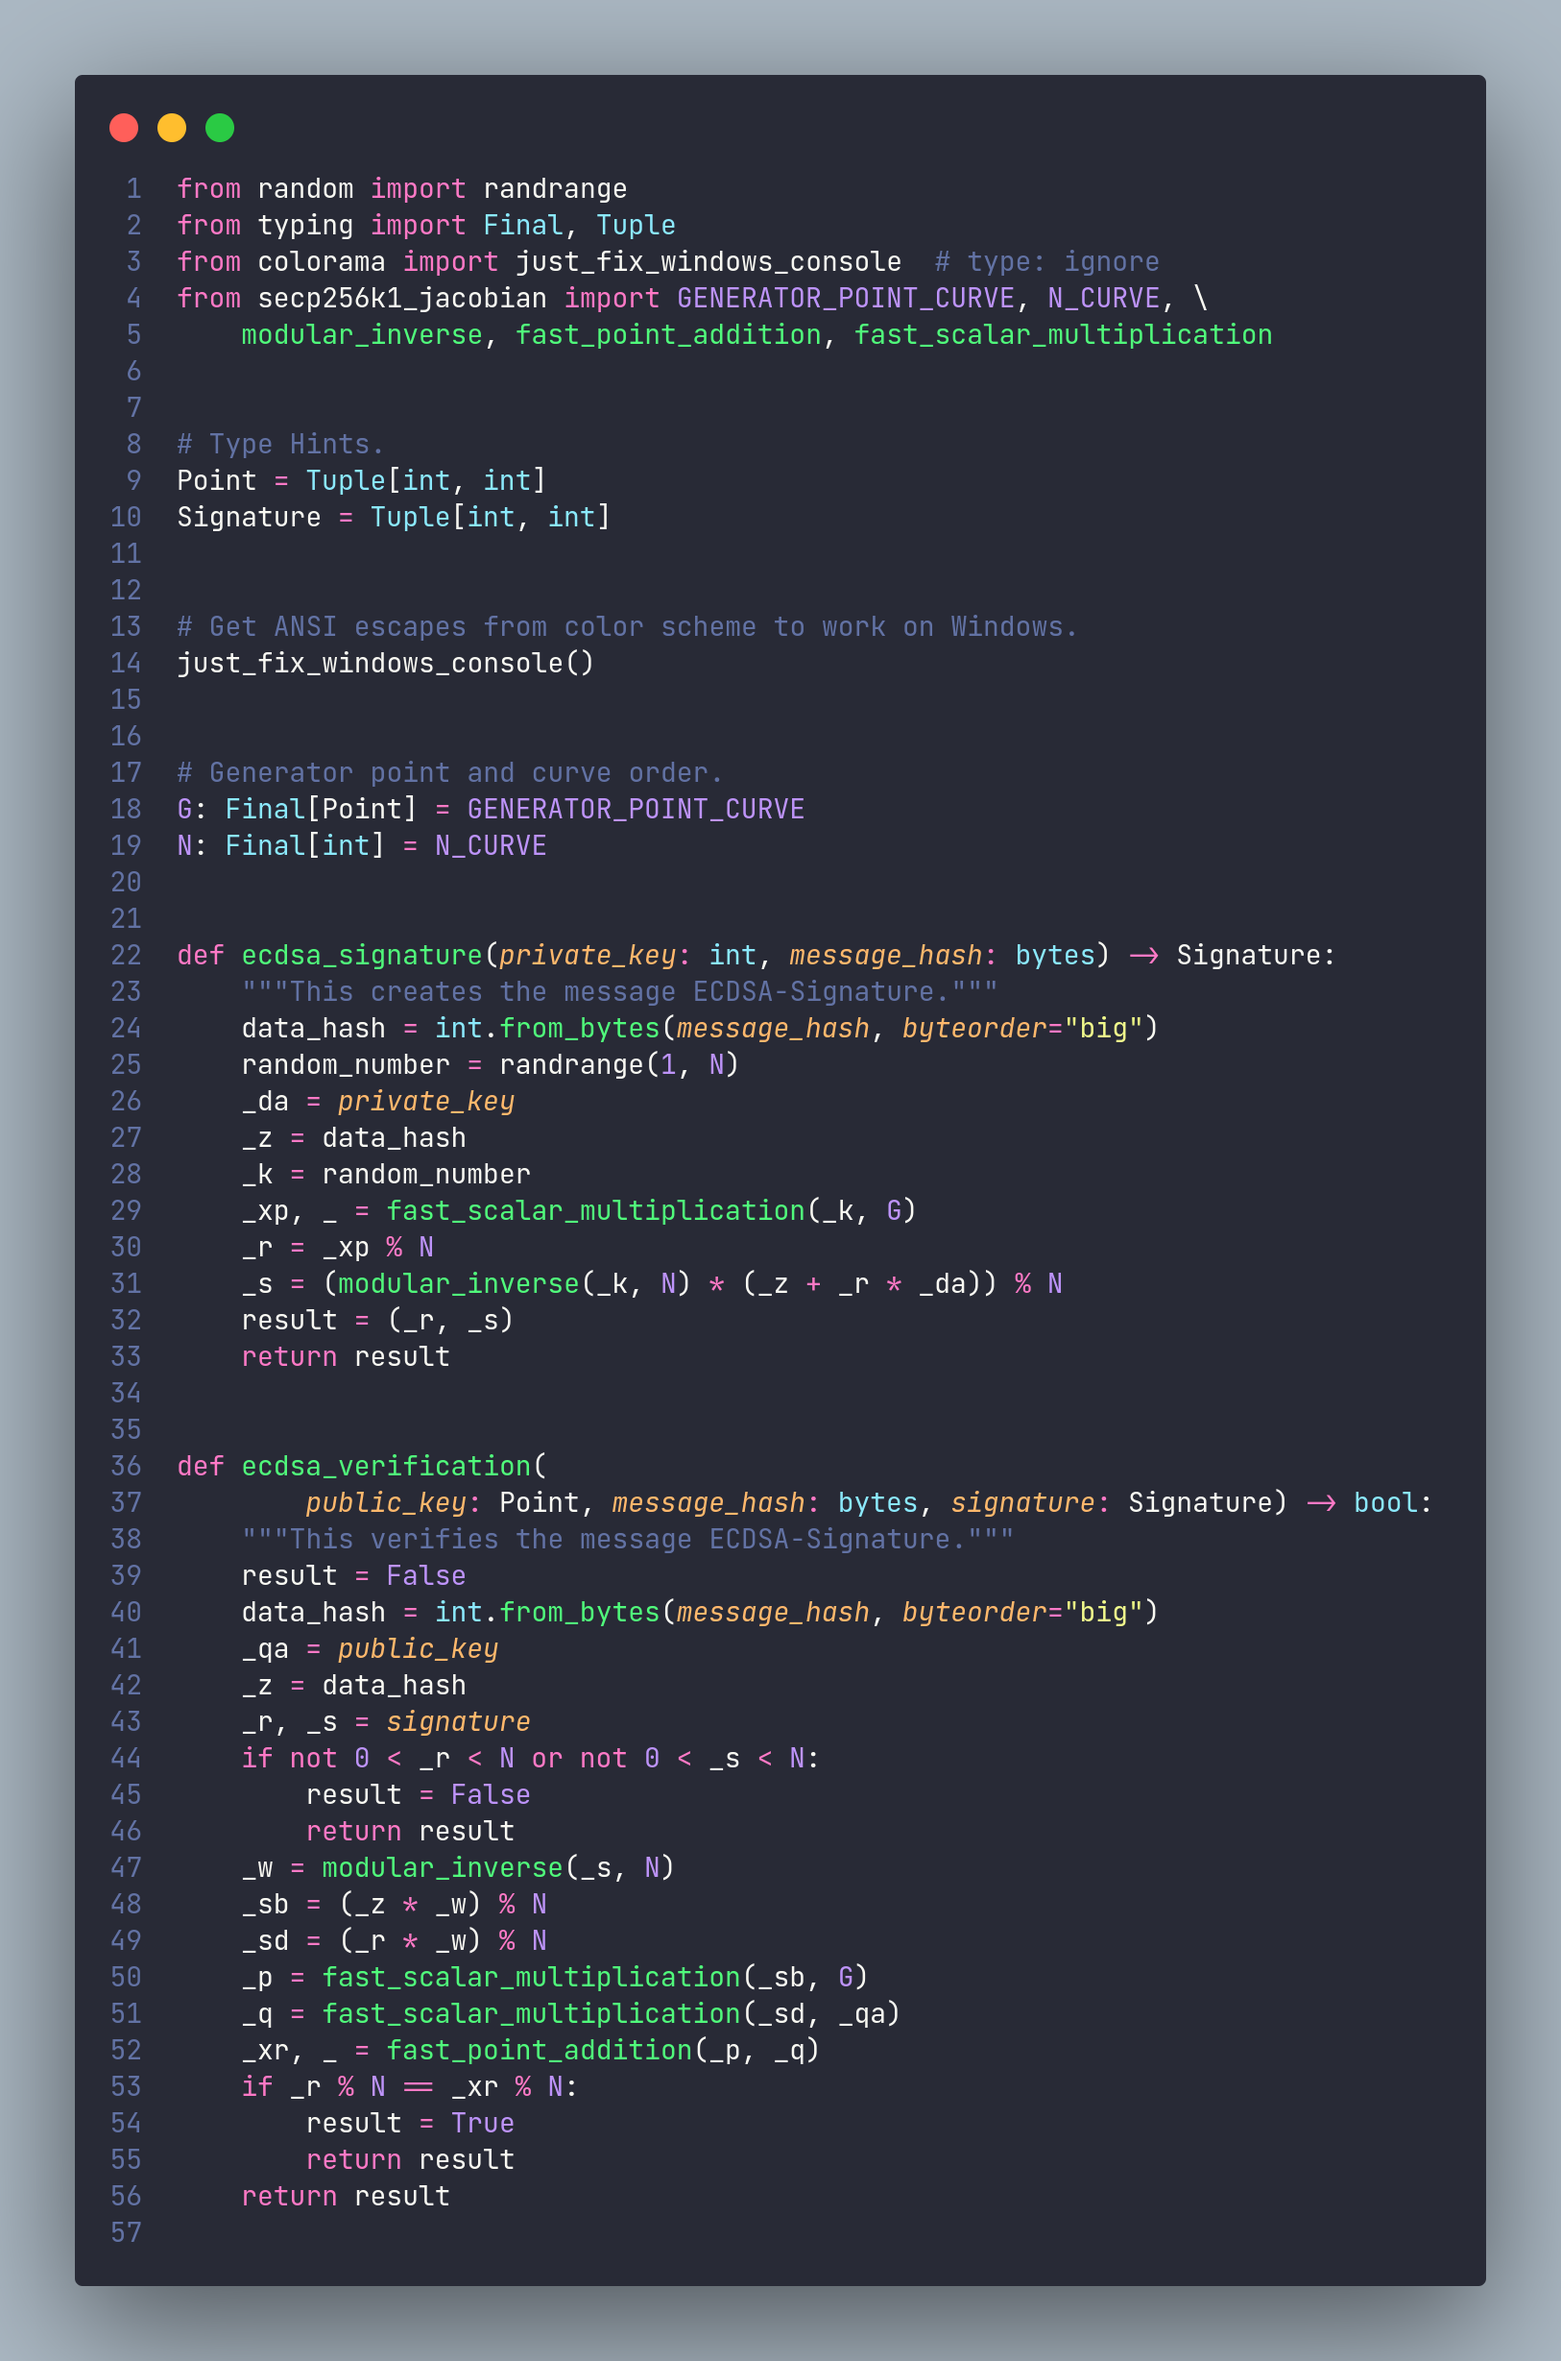
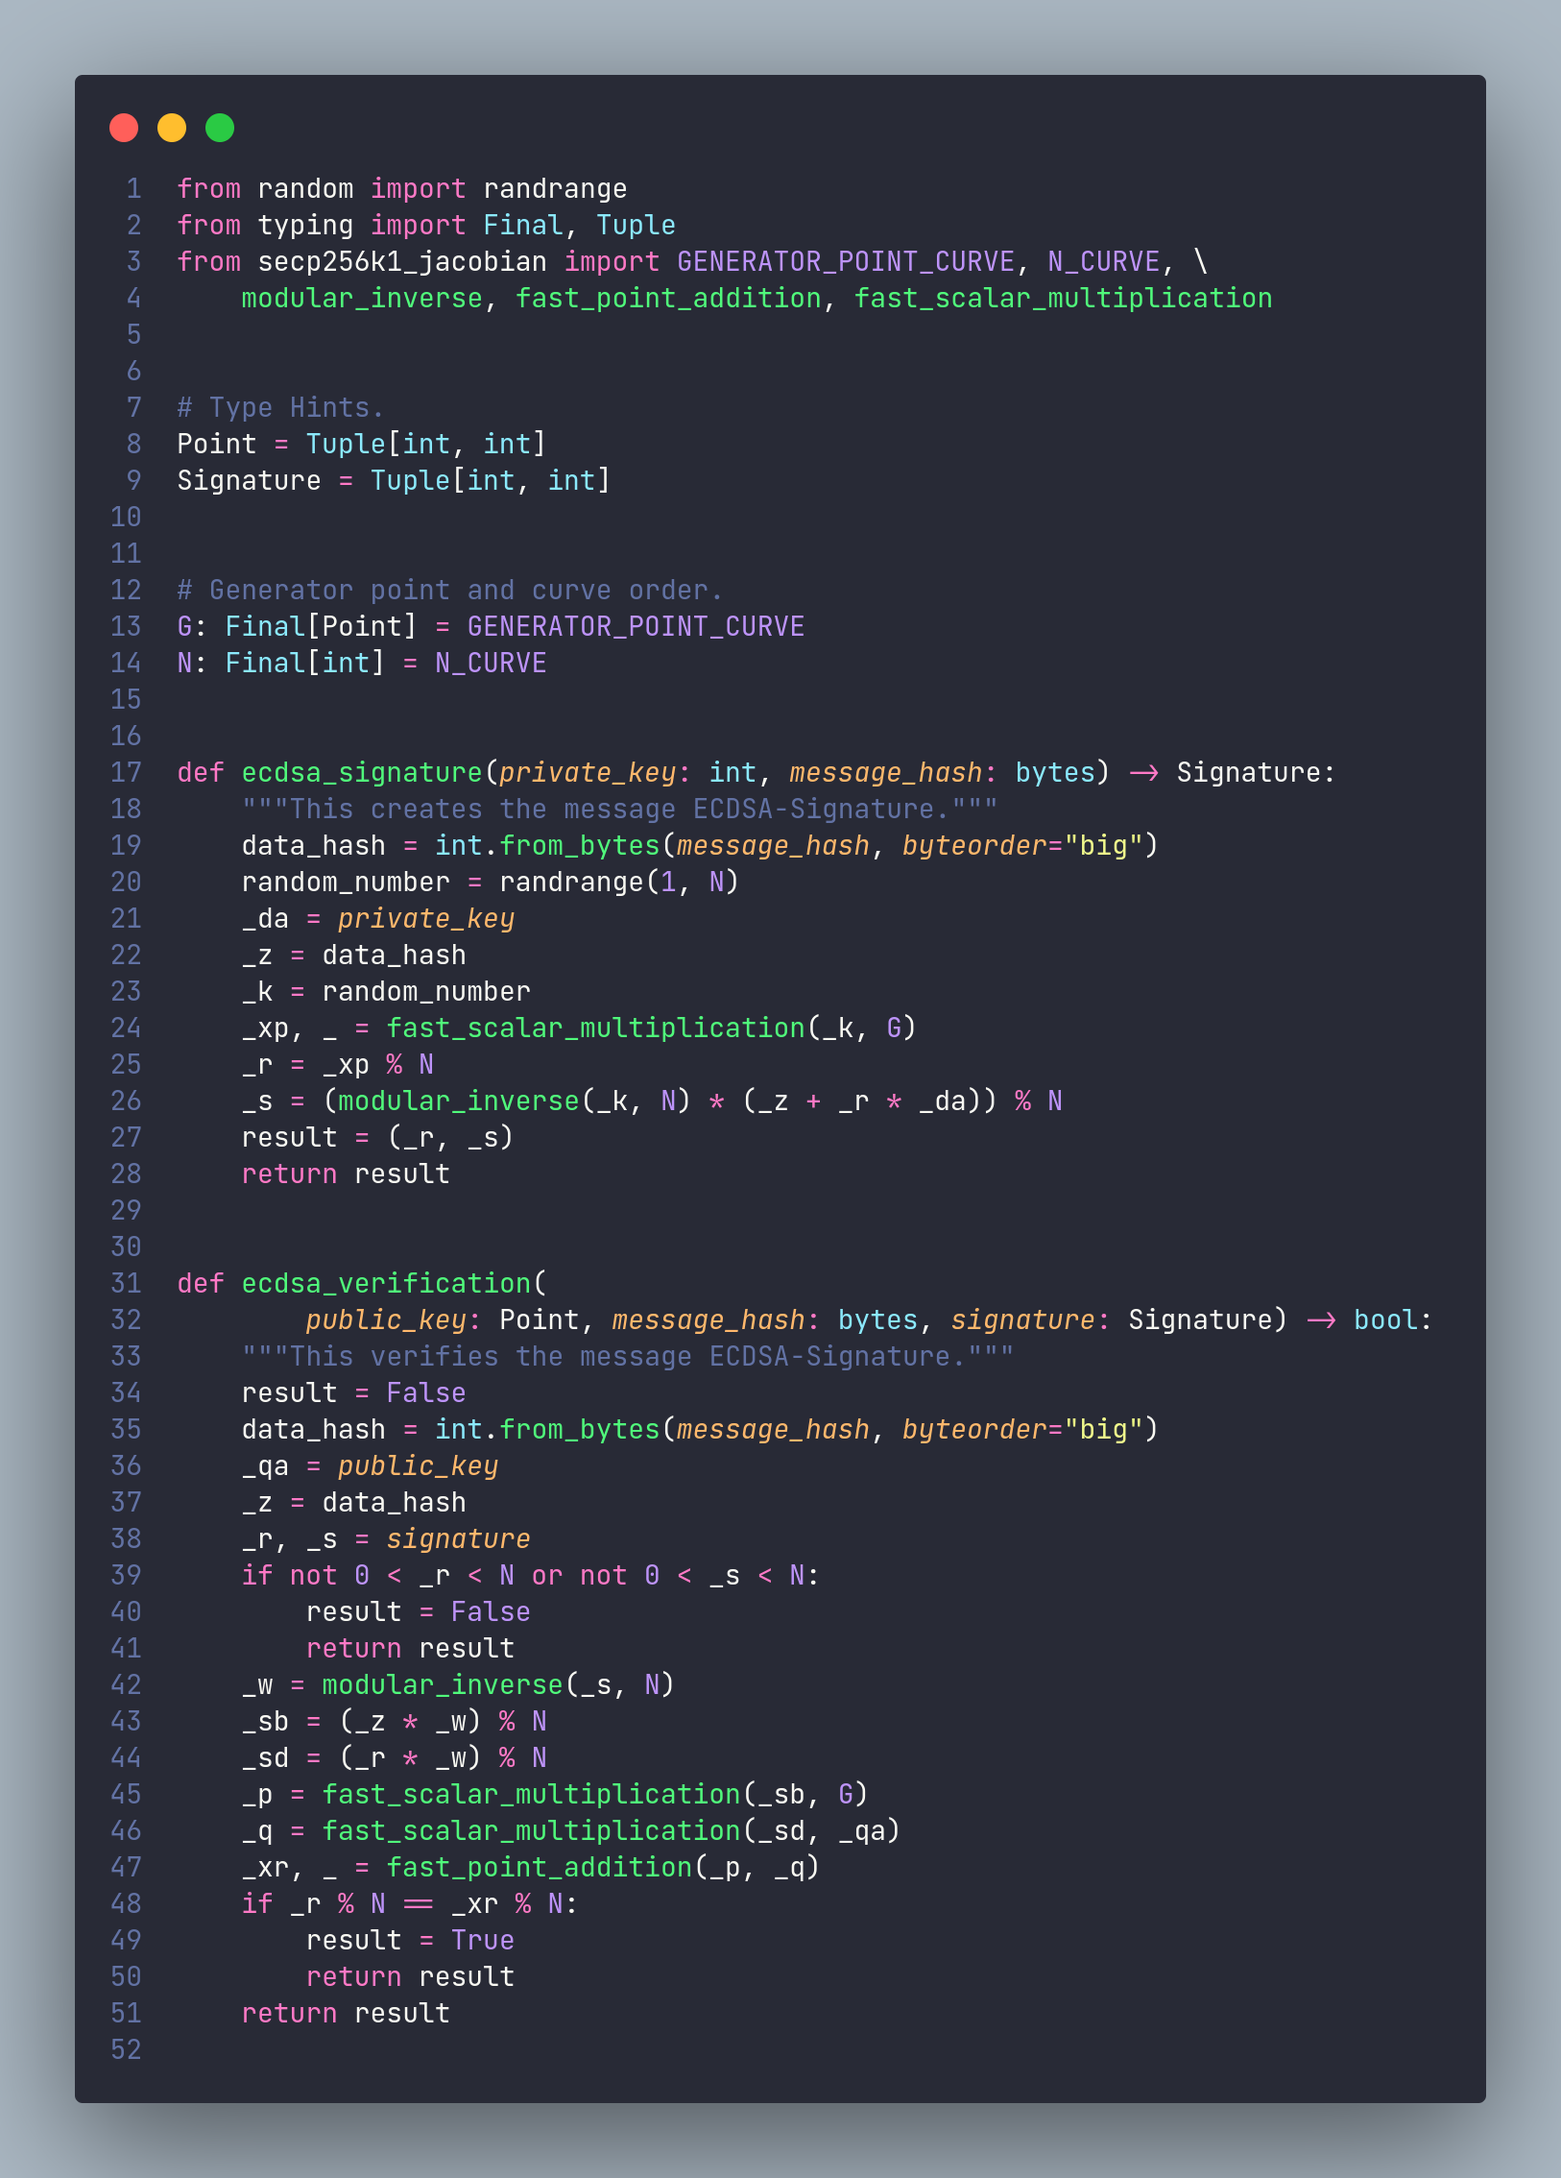
Elliptic Curve Cryptography (ECC), with curve secp256k1.

diff --git a/ecc/secp256k1/secp256k1_ecdsa.html b/ecc/secp256k1/secp256k1_ecdsa.html
@@ -1,7 +1,7 @@
 <!DOCTYPE html>
 <html>
   <head>
-<meta http-equiv="content-type" content="text/html; charset=UTF-8">
+<meta charset="utf-8">
 <link rel="shortcut icon" href="./images/github-logo.png">
 <title>SECP256K1 ECDSA-Signature</title>
     <style>

diff --git a/ecc/secp256k1/p2tr.html b/ecc/secp256k1/p2tr.html
@@ -1,7 +1,7 @@
 <!DOCTYPE html>
 <html>
   <head>
-<meta http-equiv="content-type" content="text/html; charset=UTF-8">
+<meta charset="utf-8">
 <link rel="shortcut icon" href="./images/github-logo.png">
 <title>BITCOIN - ENDEREÇO P2TR</title>
     <style>

diff --git a/ecc/secp256k1/secp256k1_test_vectors.html b/ecc/secp256k1/secp256k1_test_vectors.html
@@ -1,7 +1,7 @@
 <!DOCTYPE html>
 <html>
   <head>
-<meta http-equiv="content-type" content="text/html; charset=UTF-8">
+<meta charset="utf-8">
 <link rel="shortcut icon" href="./images/github-logo.png">
 <title>SECP256K1 - Test Vectors</title>
     <style>

diff --git a/ecc/secp256k1/secp256k1_weierstrass.html b/ecc/secp256k1/secp256k1_weierstrass.html
@@ -1,7 +1,7 @@
 <!DOCTYPE html>
 <html>
   <head>
-<meta http-equiv="content-type" content="text/html; charset=UTF-8">
+<meta charset="utf-8">
 <link rel="shortcut icon" href="./images/github-logo.png">
 <title>SECP256K1 | Weierstrass</title>
     <style>

diff --git a/ecc/secp256k1/secp256k1_jacobian.html b/ecc/secp256k1/secp256k1_jacobian.html
@@ -1,7 +1,7 @@
 <!DOCTYPE html>
 <html>
   <head>
-<meta http-equiv="content-type" content="text/html; charset=UTF-8">
+<meta charset="utf-8">
 <link rel="shortcut icon" href="./images/github-logo.png">
 <title>SECP256K1 | Jacobian</title>
     <style>

diff --git a/ecc/secp256k1/secp256k1_ecdsa.py b/ecc/secp256k1/secp256k1_ecdsa.py
@@ -46,7 +46,6 @@ Works on Python 3.8 or higher.
 
 from random import randrange
 from typing import Final, Tuple
-from colorama import just_fix_windows_console  # type: ignore
 from secp256k1_jacobian import GENERATOR_POINT_CURVE, N_CURVE, \
     modular_inverse, fast_point_addition, fast_scalar_multiplication
 
@@ -54,10 +53,6 @@ from secp256k1_jacobian import GENERATOR_POINT_CURVE, N_CURVE, \
 # Type Hints.
 Point = Tuple[int, int]
 Signature = Tuple[int, int]
-
-
-# Get ANSI escapes from color scheme to work on Windows.
-just_fix_windows_console()
 
 
 # Generator point and curve order.
@@ -107,6 +102,10 @@ if __name__ == "__main__":
     # ECDSA-Signature test.
     from hashlib import sha256
     from secp256k1_jacobian import x_coordinate, y_coordinate
+    from colorama import just_fix_windows_console  # type: ignore
+
+    # Get ANSI escapes from color scheme to work on Windows.
+    just_fix_windows_console()
 
     def hasher_double_sha256(data: bytes) -> bytes:
         """Get double hash through SHA-256."""

diff --git a/ecc/secp256k1/secp256k1_jacobian.py b/ecc/secp256k1/secp256k1_jacobian.py
@@ -501,7 +501,7 @@ if __name__ == "__main__":
 
     start = perf_counter()
     ELAPSED = 0.0
-    while ELAPSED < 900.0:
+    while ELAPSED < 60.0:
         private_key = randrange(1, N_CURVE)
         public_key = fast_scalar_multiplication(
             private_key, GENERATOR_POINT_CURVE)

diff --git a/ecc/secp256k1/secp256k1_weierstrass.py b/ecc/secp256k1/secp256k1_weierstrass.py
@@ -291,7 +291,7 @@ if __name__ == "__main__":
 
     start = perf_counter()
     ELAPSED = 0.0
-    while ELAPSED < 900.0:
+    while ELAPSED < 60.0:
         private_key = randrange(1, N_CURVE)
         public_key = ec_point_multiplication(
             private_key, GENERATOR_POINT_CURVE)
